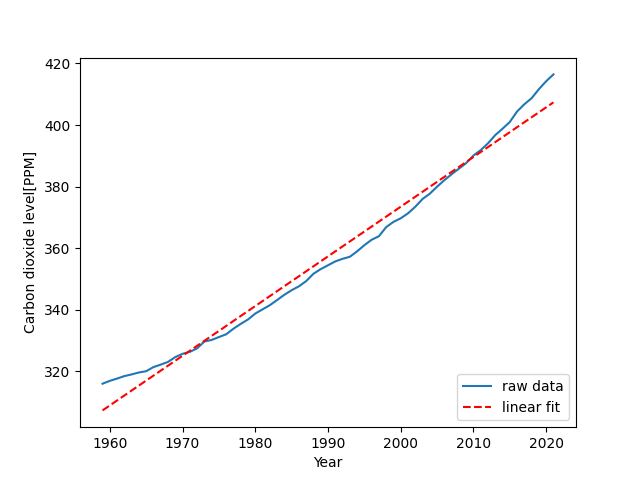
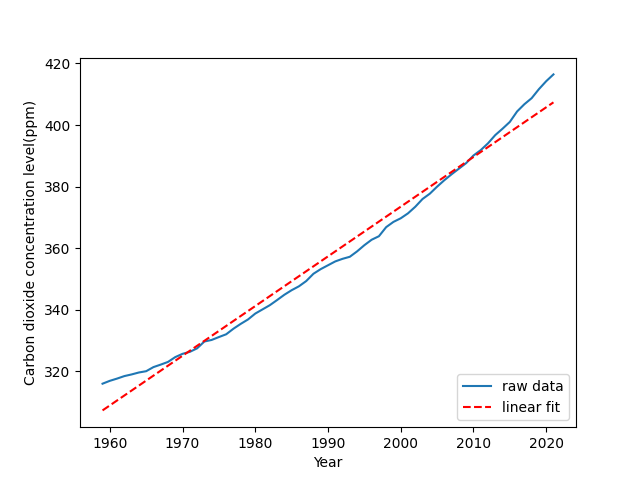
add anything

Changed region(s): [[0.0312, 0.2188, 0.0625, 0.8125]]

diff --git a/code/graph fit year-temp.py b/code/graph fit year-temp.py
@@ -1,14 +1,17 @@
 import pandas as pd
+import numpy as np
 import matplotlib.pyplot as plt
-import linear_model as lm
-import quadratic_model as qm
+from scipy.optimize import curve_fit
+from sklearn.metrics import mean_squared_error
+import math
+
+def objective_quadratic(x,a,b,c):
+    return a*x**2 + b*x + c
 
 data = pd.read_csv('2022_HiMCM_Data.csv')
-data = data.drop('Unnamed: 3', axis = 1)
-data = data.drop('Unnamed: 4', axis = 1)
-data = data.drop('Unnamed: 5', axis = 1)
-data = data.drop('Unnamed: 6', axis = 1)
 data = data.drop('PPM', axis=1)
+
+data['Year'] = data['Year'].astype(float)
 
 print(data.to_string())
 
@@ -16,5 +19,14 @@ plt.xlabel('Year')
 plt.ylabel('Temp')
 
 plt.plot(data['Year'], data['Temp'], '-', label='raw data')
+fit_paramsQ, covariances = curve_fit(objective_quadratic, data["Year"], data["Temp"], p0=(0.01, 0.01, 0.01))
+a, b, c = fit_paramsQ
+print("%f * x^2 + %f * x + %f" % (a, b, c))
+y_fit = objective_quadratic(data["Year"], a, b, c)
+mse = mean_squared_error(data['Temp'], y_fit)
+rmse = math.sqrt(mse)
+print(rmse)
+plt.plot(data["Year"], y_fit, '--', color='red', label='quadratic fit')
 plt.legend(loc='lower right')
-plt.savefig('./picture/temperature-year')
+#plt.savefig('./picture/temperature-year')
+plt.show()

diff --git a/code/graph fit year-carbon.py b/code/graph fit year-carbon.py
@@ -4,19 +4,16 @@ import linear_model as lm
 import quadratic_model as qm
 
 data = pd.read_csv('2022_HiMCM_Data.csv')
-data = data.drop('Unnamed: 3', axis = 1)
-data = data.drop('Unnamed: 4', axis = 1)
-data = data.drop('Unnamed: 5', axis = 1)
-data = data.drop('Unnamed: 6', axis = 1)
 data = data.drop('Temp', axis=1)
 data = data.rename(columns={"PPM": "carbon level"})
 
 print(data.to_string())
 
 plt.xlabel('Year')
-plt.ylabel('Carbon dioxide level[PPM]')
+plt.ylabel('Carbon dioxide concentration level(ppm)')
 
 plt.plot(data["Year"], data["carbon level"], '-', label='raw data')
-qm.quadratic_fit(data)
+lm.linear_fit(data)
 plt.legend(loc = 'lower right')
-plt.savefig('./picture/carbon dioxide level quadratic fit.png')
+#plt.title("Model of relationship between Year and carbon dioxed level\n using quadratic regression")
+plt.savefig('./picture/carbon dioxide level linear fit.png')

diff --git a/code/graph fit carbon-temp.py b/code/graph fit carbon-temp.py
@@ -4,10 +4,6 @@ import linear_model as lm
 import quadratic_model as qm
 
 data = pd.read_csv('2022_HiMCM_Data.csv')
-data = data.drop('Unnamed: 3', axis = 1)
-data = data.drop('Unnamed: 4', axis = 1)
-data = data.drop('Unnamed: 5', axis = 1)
-data = data.drop('Unnamed: 6', axis = 1)
 data = data.rename(columns={'PPM': 'carbon level'})
 
 print(data.to_string())
